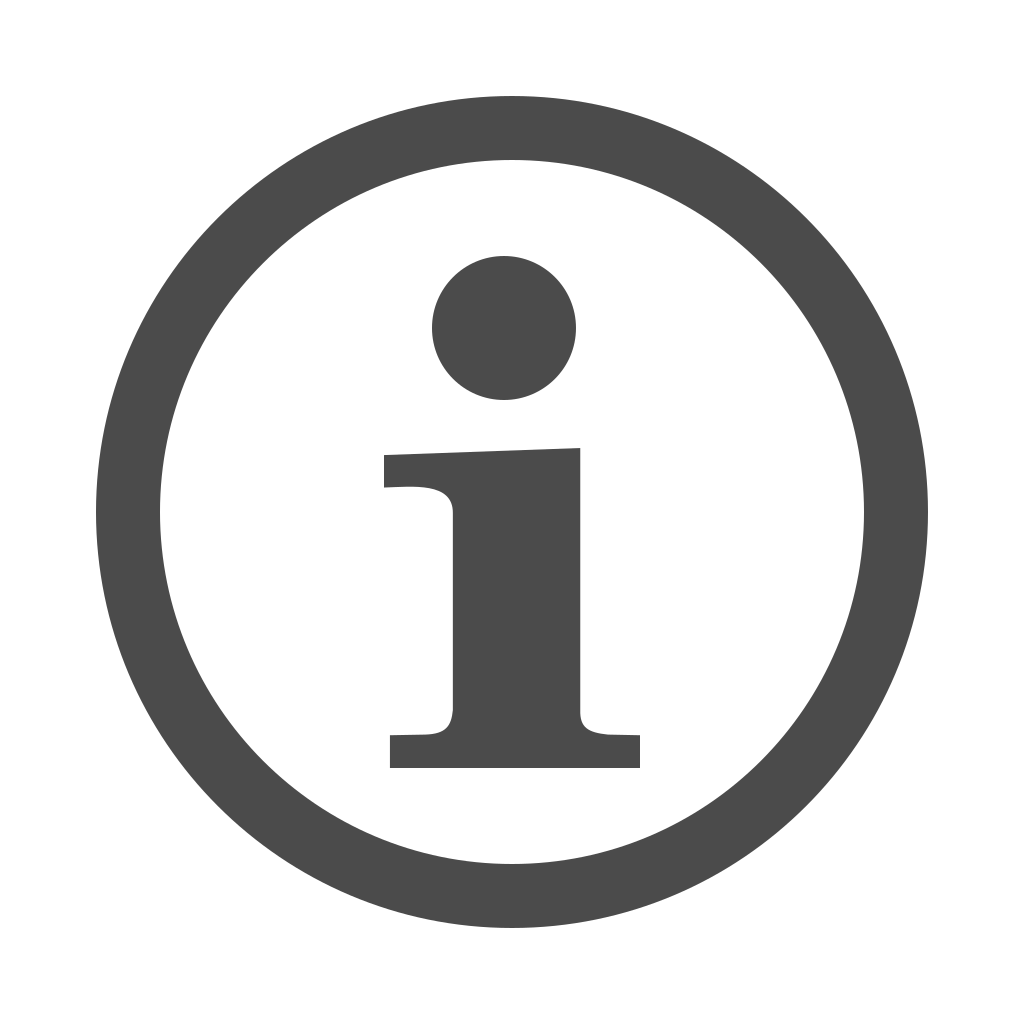
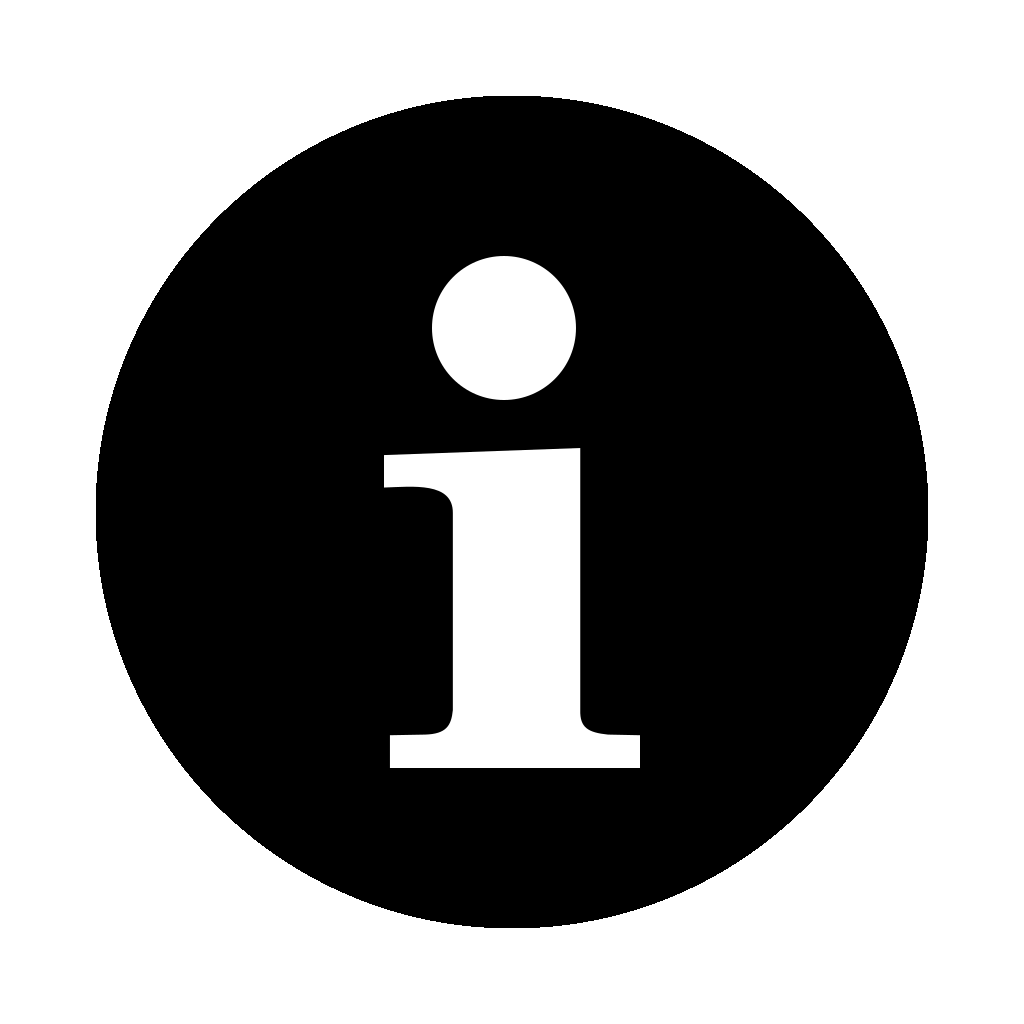
latest

diff --git a/app/views/case-type.html b/app/views/case-type.html
@@ -33,7 +33,8 @@
 
 			<form action="/form-step-a" method="get" class="form">
 				<div class="form-group form-elem-container">
-					<label class="form-label visually-hidden" for="select-box-case-type">What type of plan is this document?</label>
+					<label class="form-label visually-hidden" for="select-box-case-type">What type of plan is this document? </label>
+					<p><span class="info icon icon-info"></span> <span class="hint-text">Supporting information for types of plan.</span></p>
 					<select class="form-control" id="select-box-case-type" name="select-box-case-type" data-rule-required="true">
 						<option value="">Please select</option>
 						<option value="select-plan-a"{% if data['select-box-case-type'] == 'select-plan-a' %} selected{% endif %}>Re-determination</option>
@@ -46,6 +47,7 @@
 
 				<div class="form-group form-elem-container">
 					<h3 class="heading-medium">Is this your only appeal for this site?</h3>
+					<p><span class="info icon icon-info"></span> <span class="hint-text">Supporting information for appeals.</span></p>					
 
 					<div class="multiple-choice">
 						<input id="registeredTrue" type="radio" name="registered" value="true" data-rule-required="true"{% if data['registered'] == 'true' %} checked{% endif %}>
@@ -61,12 +63,14 @@
 
 				<div class="form-group form-elem-container input-other-field">
 					<label class="form-label" for="case-reference">If no then please provide us with your case reference number</label>
+					<p><span class="info icon icon-info"></span> <span class="hint-text">Supporting information case reference numbers.</span></p>					
 					<input class="form-control" id="case-reference" name="case-reference" type="text" value="{% if data['case-reference'] %}{{data['case-reference']}}{% endif %}"> 
 					<span class="error-container"></span>
 				</div>
 
 				<div class="form-group form-elem-container">
 					<label class="form-label" for="select-box-proposal">What is the proposal?</label>
+					<p><span class="info icon icon-info"></span> <span class="hint-text">Supporting information case proposals.</span></p>					
 					<select class="form-control" id="select-box-proposal" name="select-box-proposal" data-rule-required="true">
 						<option value="">Please select</option>
 						<option value="option-a"{% if data['select-box-proposal'] == 'option-a' %} selected{% endif %}>Residential</option>
@@ -83,6 +87,7 @@
 
 				<div class="form-group form-elem-container">
 					<label class="form-label" for="select-box-case-scale">What is the scale?</label>
+					<p><span class="info icon icon-info"></span> <span class="hint-text">Supporting information on scale.</span></p>					
 					<select class="form-control" id="select-box-case-scale" name="select-box-case-scale" data-rule-required="true">
 						<option value="">Please select</option>
 						<option value="option-a"{% if data['select-box-case-scale'] == 'option-a' %} selected{% endif %}>Under 0.1ha or up to 3 dwellings, 1-5 bedroom/caravans; 1-3 Gypsy &amp; Traveller caravans</option>
@@ -97,6 +102,7 @@
 
 				<div class="form-group form-elem-container">
 					<h3 class="heading-medium" for="select-box-case-type">Which of the following were a reason/reasons for refusal?</h3>
+					<p><span class="info icon icon-info"></span> <span class="hint-text">Supporting information on reasons for refusal.</span></p>					
 					<div class="multiple-choice">
 						<input id="refusalA" type="radio" name="refusal" value="refusalA" data-rule-required="true"{% if data['refusal'] == 'refusalA' %} checked{% endif %}>
 						<label for="refusalA">Living Conditions: sunlight/daylight; privacy/overlooking; smell/fumes; overshadowing; overbearing; visual impact; amenity space, health fears; noise; outlook</label>
@@ -173,7 +179,7 @@
 
 				<div class="form-group form-elem-container">
 					<h3 class="heading-medium">What procedure would you like to continue with?</h3>
-					<p><span class="text-hint">Based on your answers, in 90% of similar cases a Hearing will be carried out</span></p>
+					<p><span class="info icon icon-info"></span> <span class="hint-text">Based on your answers, in 90% of similar cases a Hearing will be carried out</span></p>
 					<div class="multiple-choice">
 						<input id="procedureContinueA" type="checkbox" name="procedure" value="procedureContinueA" data-rule-required="true"{% if data['procedure'] == 'procedureContinueA' %} checked{% endif %}>
 						<label for="procedureContinueA">Written representation</label>
@@ -192,8 +198,12 @@
 					<span class="error-container"></span>
 				</div>
 
-				<div class="form-group form-elem-container">
-					<h3 class="heading-medium">Based on your answers; only 20% of similar appeals are overruled. Are you sure you want to continue? <span class="info icon icon-info"></span></h3>
+				<div class="form-group form-elem-container">				
+					<h3 class="heading-medium">Are you sure you want to continue?</h3>
+					<p>
+					<span class="info icon icon-info"></span>
+					<span class="hint-text">Based on your answers; only 20% of similar appeals are overruled.</span>
+					</p>
 					<div class="multiple-choice">
 						<input id="appealContinueA" type="radio" name="appeal-continue" value="true" data-rule-required="true"{% if data['appeal-continue'] == 'true' %} checked{% endif %}>
 						<label for="appealContinueA">Yes</label>

diff --git a/app/assets/sass/components/global.scss b/app/assets/sass/components/global.scss
@@ -45,3 +45,23 @@ ul {
         display: block;
     }
 }
+
+.form-group p {
+    position: relative;
+}
+
+.icon-info {
+    position: absolute;
+    top: -3px;
+    left: 0;
+    display: inline-block;
+    width: 30px;
+    height: 30px;
+    background: url('/public/images/icon_info.png') no-repeat;
+    background-size: cover;
+}
+
+.icon-info + .hint-text {
+    display: inline-block;
+    padding-left: 50px;
+}
